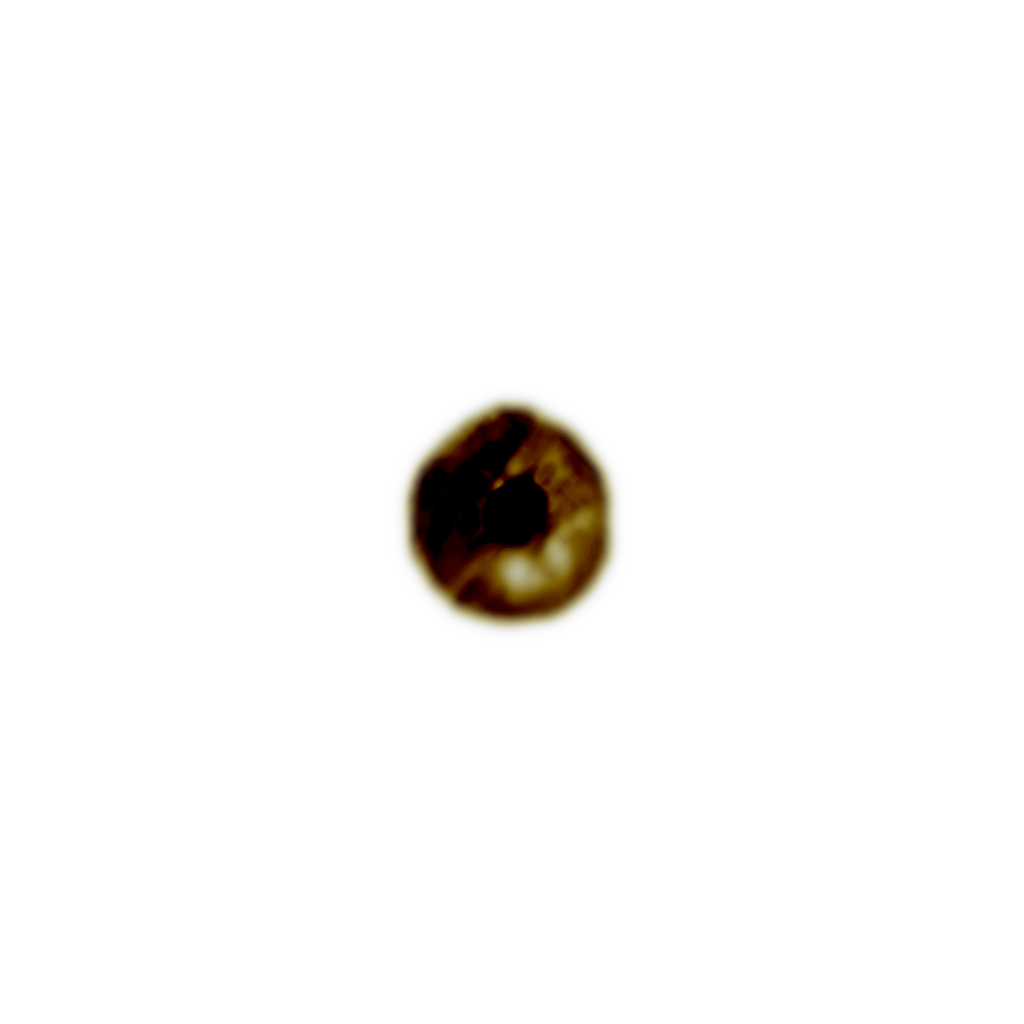
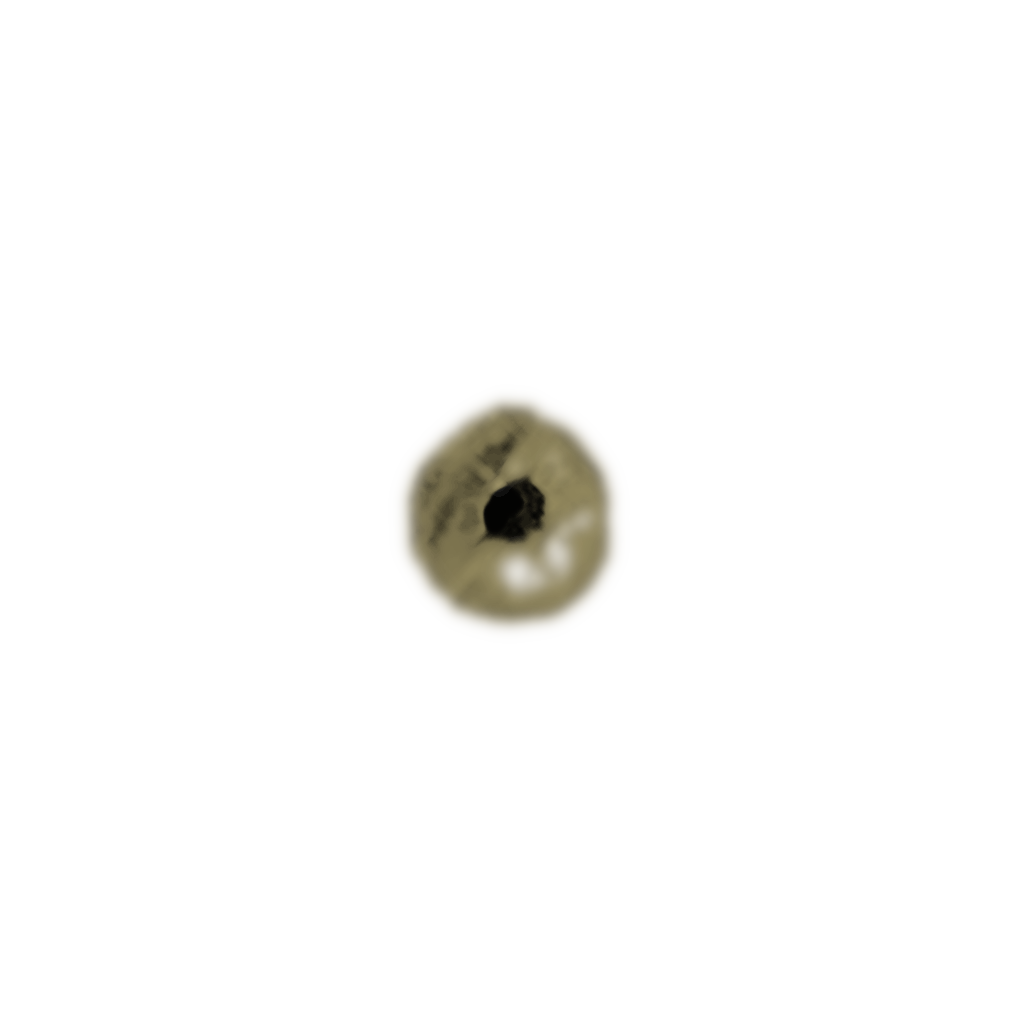
Green-Hazel color (sample5) add

Changed region(s): [[0.375, 0.375, 0.625, 0.625]]

diff --git a/texture_generator.py b/texture_generator.py
@@ -45,7 +45,7 @@ opt = parser.parse_args()
 
 # define HSV color ranges for eyes colors
 class_name = ("Blue", "Blue Gray", "Brown", "Brown Gray",
-              "Brown Black", "Green", "Green Gray" ,"Other")
+              "Brown Black", "Green", "Green Gray", "Green Hazel" ,"Other")
 EyeColor = {
     class_name[0]: ((156, 21, 50), (240, 100, 85)),
     class_name[1]: ((146, 2, 25), (300, 20, 75)),
@@ -53,7 +53,8 @@ EyeColor = {
     class_name[3]: ((20, 3, 30), (65, 60, 60)),
     class_name[4]: ((0, 10, 5), (40, 40, 25)),
     class_name[5]: ((50, 21, 50), (155, 100, 85)),
-    class_name[6]: ((50, 2, 25), (145, 20, 65))
+    class_name[6]: ((50, 2, 25), (145, 20, 65)),
+    class_name[7]: ((20, 140, 50), (40, 200, 100)),
     
 }
 
@@ -72,7 +73,7 @@ def check_color(hsv_input, color):
 
 
 def find_class(hsv):
-    color_id = 7
+    color_id = len(class_name)-1
     for i in range(len(class_name)-1):
         if check_color(hsv, EyeColor[class_name[i]]) == True:
             color_id = i
